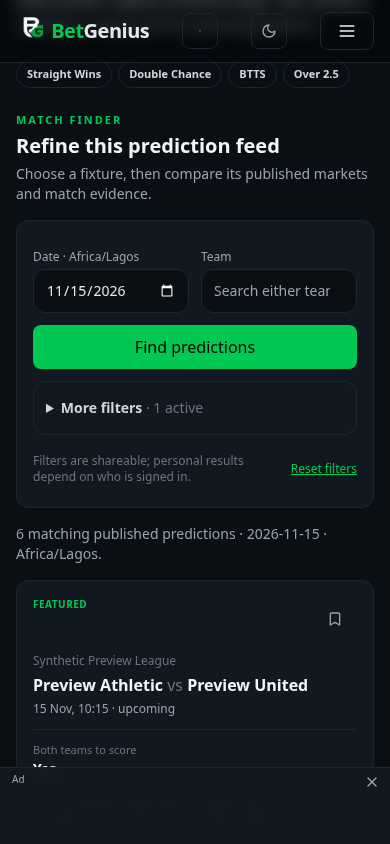
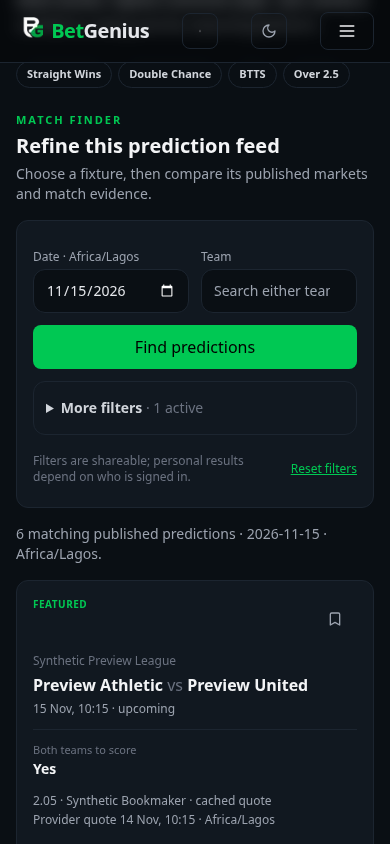
Refresh actual preview captures and wait for filtered browser navigation

Changed region(s): [[0.0923, 0.8934, 0.4923, 0.9858], [0.5231, 0.9242, 0.7077, 0.9858]]

diff --git a/scripts/check-sprint08-browser.ts b/scripts/check-sprint08-browser.ts
@@ -59,28 +59,21 @@ async function main() {
     ok(response?.status() === 200, `HTTP 200 for ${path}`);
     const reject = page.getByRole("button", { name: "Reject", exact: true });
     if (await reject.isVisible()) await reject.click();
+    const closeAd = page.getByRole("button", { name: "Close ad", exact: true });
+    if (await closeAd.isVisible()) await closeAd.click();
     await checkLayout(page);
   }
   const discovery = `/predictions?d_date=${manifest.date}`;
   const snapshots: string[] = [];
   async function shot(page: any, name: string, anchor?: string) {
-    if (name.endsWith("-evidence") || name.endsWith("-markets")) {
-      const id = name.endsWith("-evidence")
-        ? "evidence-guide"
-        : "market-comparison";
+    if (anchor)
       await page
-        .locator(`section[aria-labelledby="${id}"]`)
-        .screenshot({ path: `${folder}/${name}.png`, animations: "disabled" });
-    } else {
-      if (anchor)
-        await page
-          .locator(anchor)
-          .evaluate((el: HTMLElement) => el.scrollIntoView({ block: "start" }));
-      await page.screenshot({
-        path: `${folder}/${name}.png`,
-        animations: "disabled",
-      });
-    }
+        .locator(anchor)
+        .evaluate((el: HTMLElement) => el.scrollIntoView({ block: "start" }));
+    await page.screenshot({
+      path: `${folder}/${name}.png`,
+      animations: "disabled",
+    });
     snapshots.push(`${name}.png`);
   }
   try {
@@ -122,9 +115,22 @@ async function main() {
       await form.locator('[name="d_team"]').fill("Preview Athletic 6");
       await form.locator('[name="d_market"]').selectOption("BTTS");
       await Promise.all([
-        page.waitForNavigation({ waitUntil: "networkidle" }),
+        page.waitForURL(
+          (url: URL) =>
+            url.searchParams.get("d_market") === "BTTS" &&
+            url.searchParams.get("d_team") === "Preview Athletic 6",
+          { waitUntil: "domcontentloaded", timeout: 60000 },
+        ),
         form.getByRole("button", { name: "Find predictions" }).click(),
       ]);
+      await page.waitForFunction(
+        () =>
+          document
+            .querySelector("#discover")
+            ?.textContent?.includes("1 matching"),
+        null,
+        { timeout: 60000 },
+      );
       ok(
         (await page.locator("#discover").innerText()).includes("1 matching"),
         "Team + market form submission",

diff --git a/docs/sprint08/implementation-and-validation.md b/docs/sprint08/implementation-and-validation.md
@@ -1,6 +1,6 @@
 # Sprint 08 — Prediction discovery and match intelligence
 
-Base: `ff11995d6df8fe7b89f4dfefc62cd3e478820be8`, including merged PR #183. Delivery is one branch, `feat/sprint08-discovery`, and one PR. The delivery message and PR record identify the final SHA and CI runs. No merge or deployment is authorized by this work.
+Base: `ff11995d6df8fe7b89f4dfefc62cd3e478820be8`, including merged PR #183. Delivery: [PR #184](https://github.com/Voclain1/betgenius/pull/184), branch `feat/sprint08-discovery`. The delivery message and PR record identify the final SHA and CI runs. No merge or deployment is authorized by this work.
 
 ## Repository audit and features reused
 
@@ -59,8 +59,8 @@ All screenshots are from the actual production-mode local app in Chromium, using
 | Shared discovery | [1440 px](screenshots/desktop-discovery.png) | [390 px](screenshots/mobile-discovery.png) |
 | Refined category | [1440 px](screenshots/desktop-category.png) | [390 px](screenshots/mobile-category.png) |
 | Match verdict / navigation | [1440 px](screenshots/desktop-match.png) | [390 px](screenshots/mobile-match.png) |
-| Evidence guide | [Desktop panel](screenshots/desktop-evidence.png) | [Phone panel](screenshots/mobile-evidence.png) |
-| Market comparison | [Desktop panel](screenshots/desktop-markets.png) | [Phone panel](screenshots/mobile-markets.png) |
+| Evidence guide | [Desktop view](screenshots/desktop-evidence.png) | [Phone view](screenshots/mobile-evidence.png) |
+| Market comparison | [Desktop view](screenshots/desktop-markets.png) | [Phone view](screenshots/mobile-markets.png) |
 | Authenticated saved filter | — | [390 px](screenshots/mobile-saved.png) |
 
 The browser suite also verifies a 320-pixel viewport, zero document overflow, real GET submissions, anonymous/private HTML and flight boundaries, structured-data JSON, missing evidence/quotes, authenticated timezone/favourites, and the existing save API. The full synthetic screenshots/logs are also uploaded by the `prediction-discovery` CI workflow.
